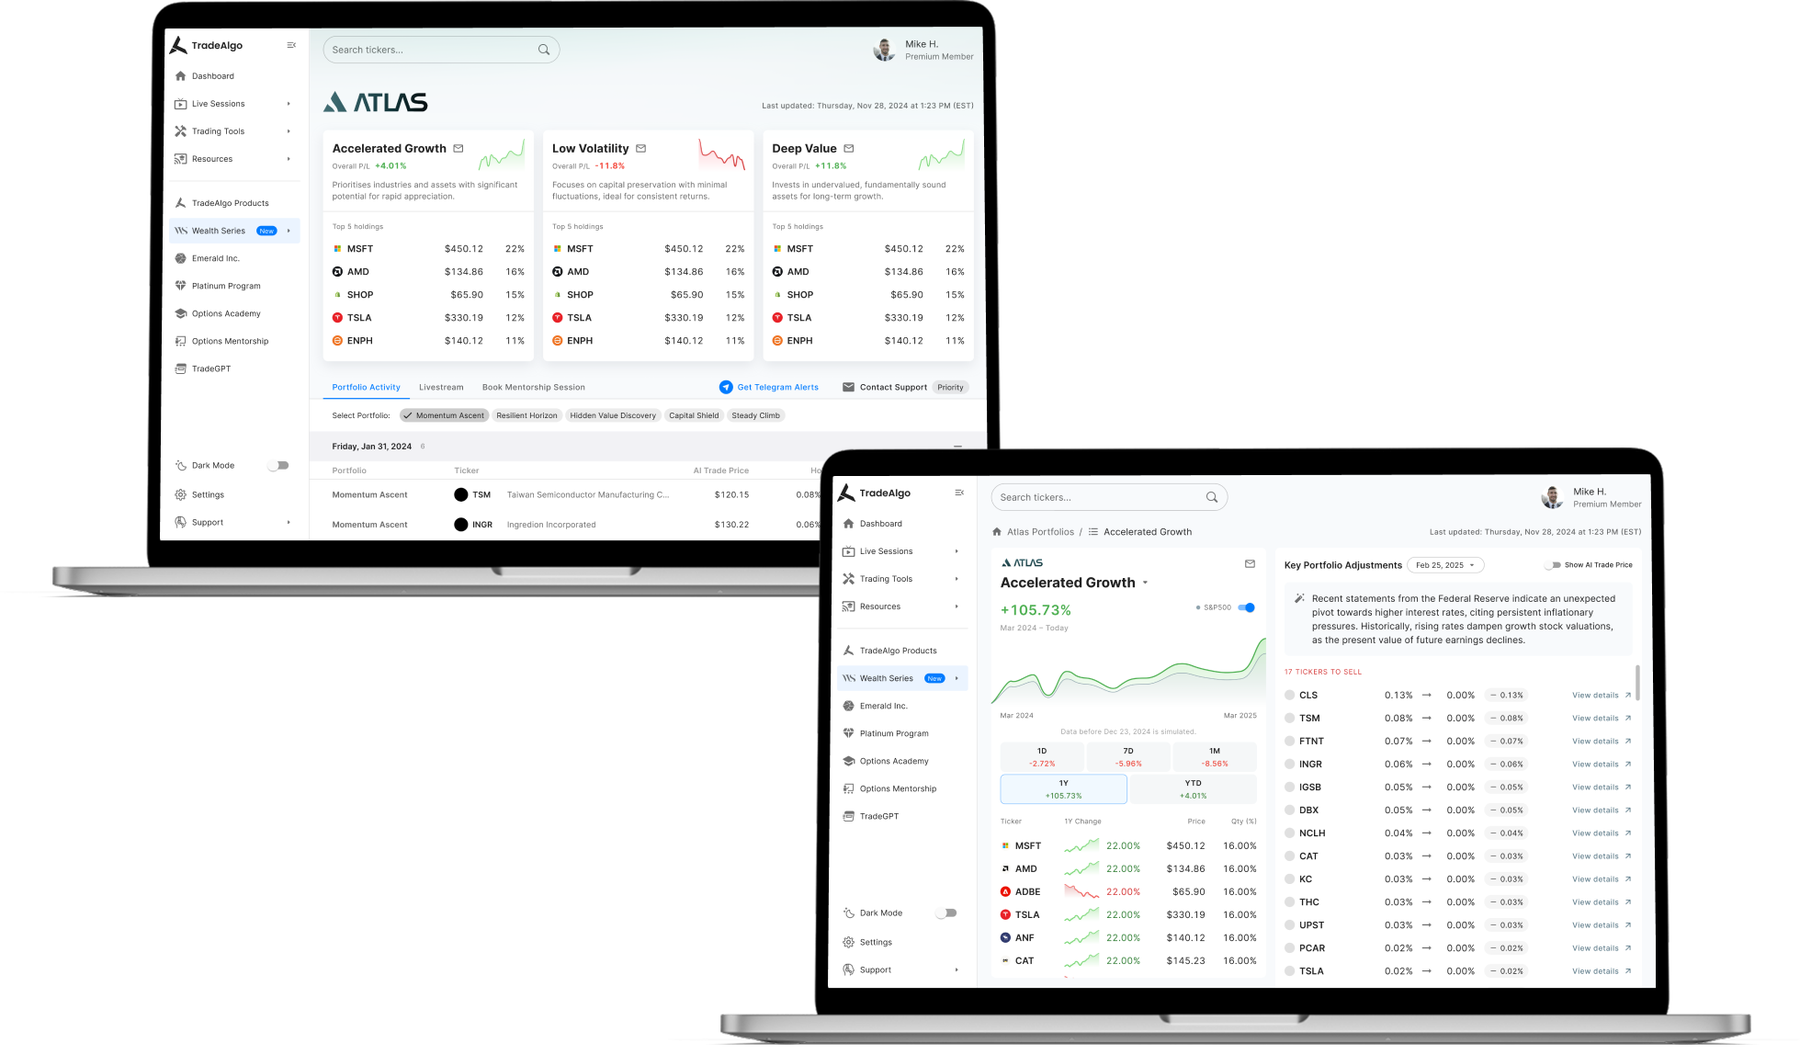
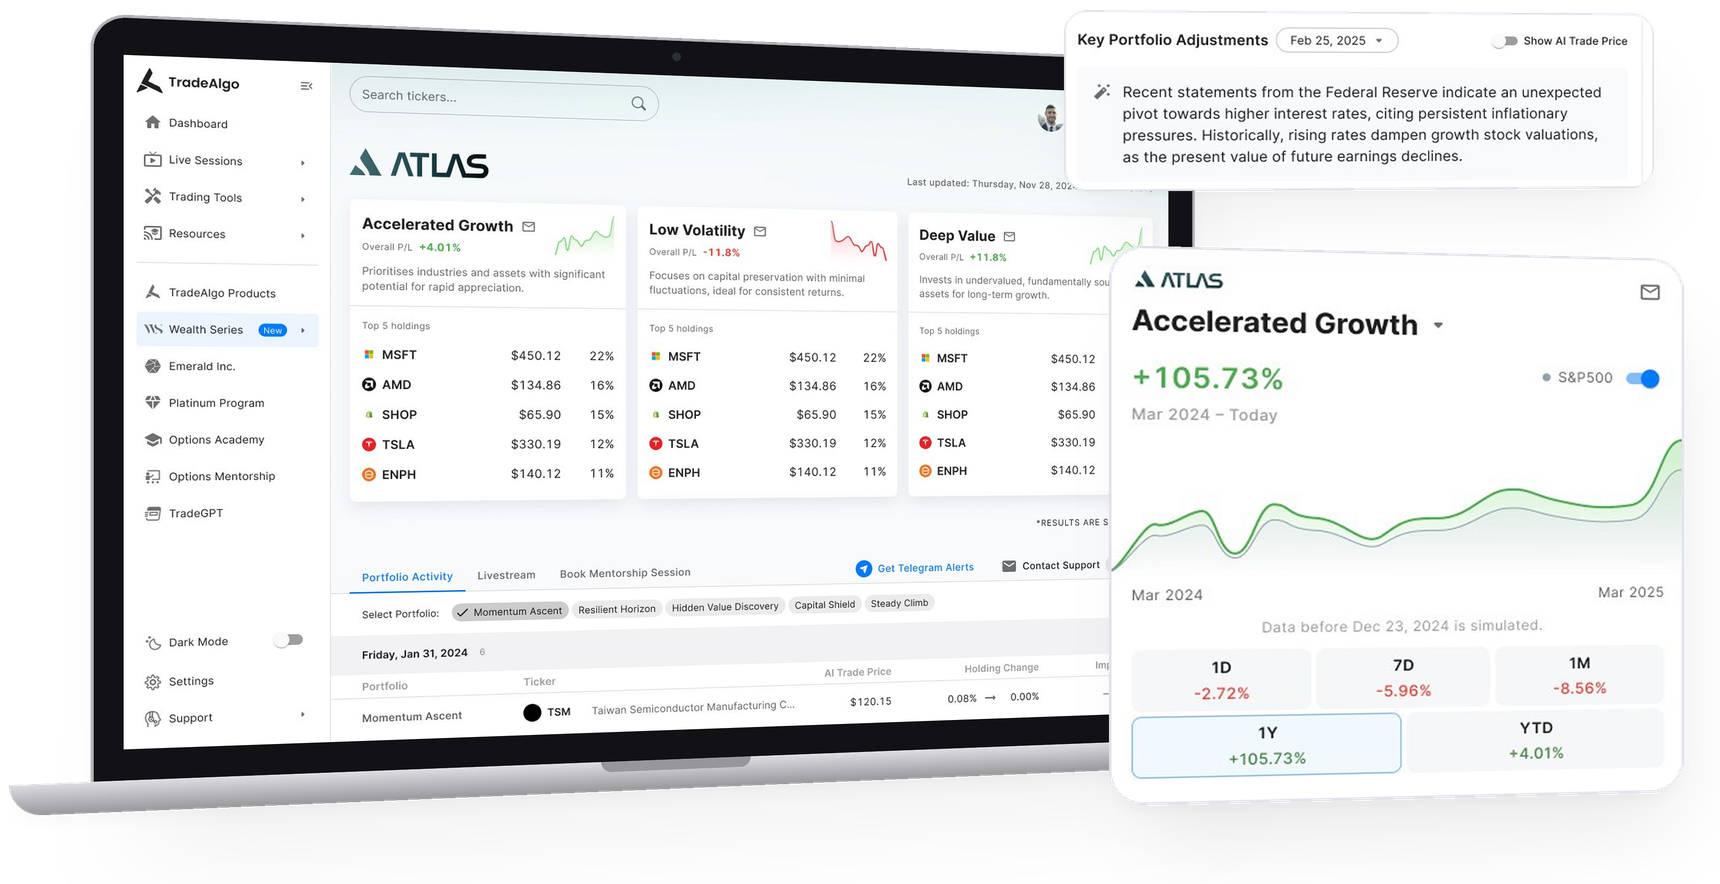
New angled hero images for Wealth Series and ERA
Angled laptop with key UI pulled out as floating cards; homepage
Wealth Series card regenerated from the new hero.

diff --git a/case-studies/wealth-series.html b/case-studies/wealth-series.html
@@ -49,7 +49,7 @@
     </div>
 
     <div class="ed-hero">
-      <img src="../assets/img/wealth-series.png" alt="Wealth Series on two laptops: the Atlas tier dashboard and a strategy's portfolio page">
+      <img src="../assets/img/wealth-series.png" alt="Wealth Series Atlas dashboard on a laptop, with the Accelerated Growth chart card and the AI portfolio adjustment note floating in front">
     </div>
   </header>
 
